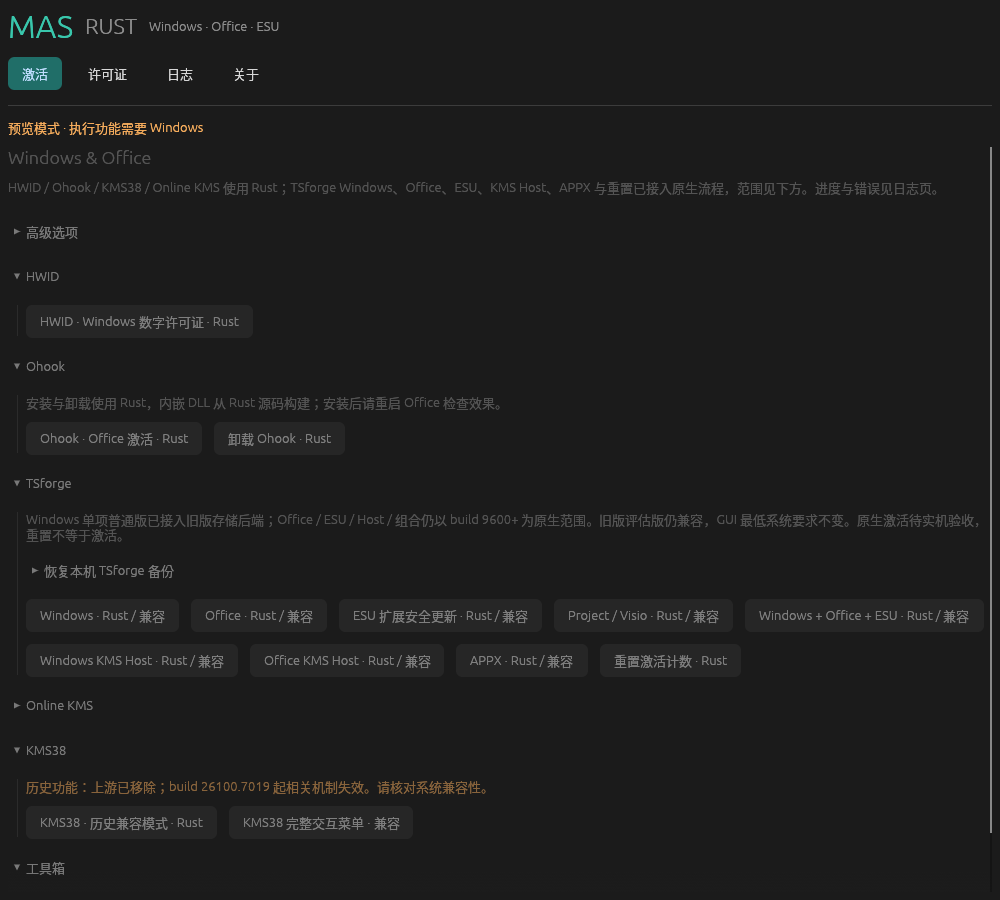
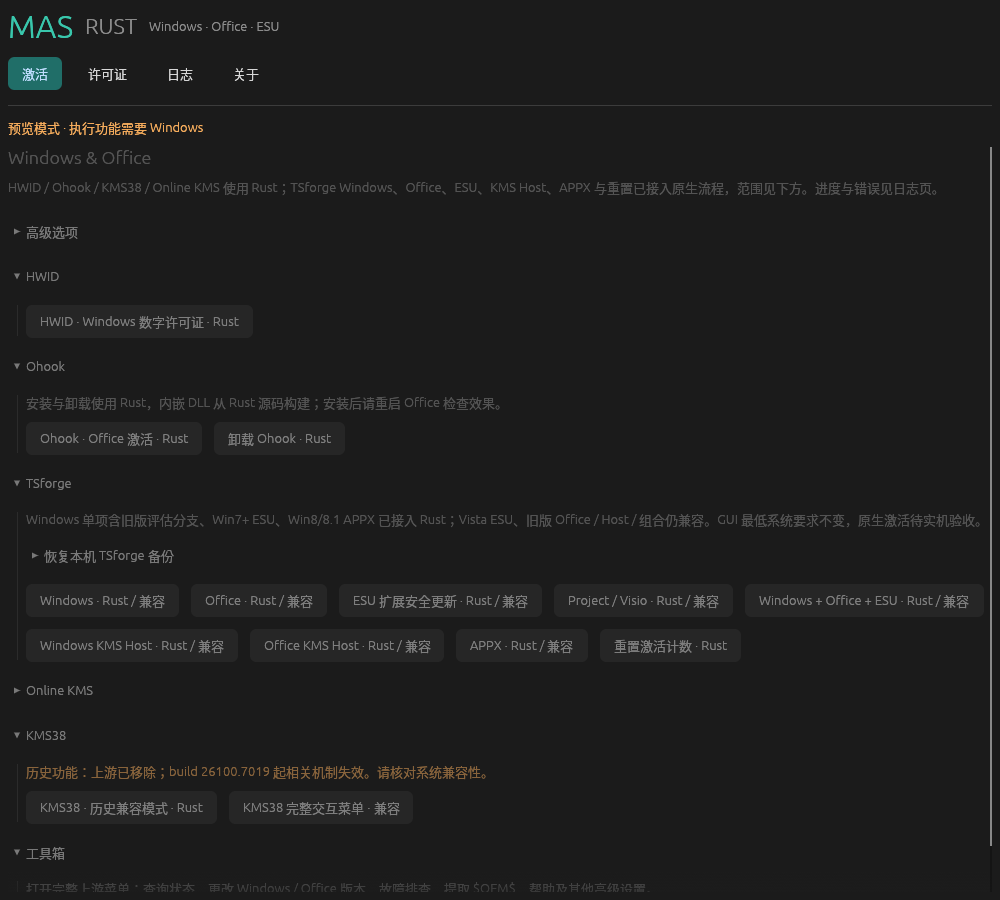
Enable native legacy evaluation ESU and Windows 8 APPX routes

diff --git a/src/app.rs b/src/app.rs
@@ -123,7 +123,7 @@ impl MasApp {
                     ui.colored_label(Color32::from_rgb(245,172,92), "历史功能：上游已移除；build 26100.7019 起相关机制失效。请核对系统兼容性。");
                 }
                 if category == "Ohook" {ui.label("安装与卸载使用 Rust，内嵌 DLL 从 Rust 源码构建；安装后请重启 Office 检查效果。");}
-                if category == "TSforge" { ui.label("Windows 单项普通版已接入旧版存储后端；Office / ESU / Host / 组合仍以 build 9600+ 为原生范围。旧版评估版仍兼容，GUI 最低系统要求不变。原生激活待实机验收，重置不等于激活。"); }
+                if category == "TSforge" { ui.label("Windows 单项含旧版评估分支、Win7+ ESU、Win8/8.1 APPX 已接入 Rust；Vista ESU、旧版 Office / Host / 组合仍兼容。GUI 最低系统要求不变，原生激活待实机验收。"); }
                 if category == "Online KMS" {
                     ui.label("原生支持 Windows、Office C2R 许可转换和 MSI 批量许可；可禁止自动转换。高级选项可指定服务器和端口，旧任务卸载仍在兼容菜单。");
                 }
@@ -296,7 +296,7 @@ impl MasApp {
                         ui.label("Rust / egui 图形前端，内嵌固定版本 MAS 引擎。非 Microsoft 或 MAS 官方产品。");
                         ui.label("当前引擎：MAS 3.12 · 6401d2f36975");
                         ui.label("KMS38 历史引擎：c9789e9aa341");
-                        ui.label("HWID / Ohook / KMS38 / Online KMS 核心和许可证管理已迁移 Rust；TSforge 现代 Windows、Office、ESU、KMS Host 和重置已接入 Rust；组合入口已接入 Rust；旧存储与高级工具仍兼容，修复分支继续迁移。");
+                        ui.label("HWID / Ohook / KMS38 / Online KMS 核心和许可证管理已迁移 Rust；TSforge Windows、Win7+ ESU、APPX 和重置已接入 Rust；Office、Host、组合的原生范围见 README；旧版剩余范围及修复/高级工具继续迁移。");
                         ui.hyperlink_to("上游源码与文档", "https://github.com/massgravel/Microsoft-Activation-Scripts");
                         ui.hyperlink_to("KMS38 兼容性变更", "https://github.com/massgravel/Microsoft-Activation-Scripts/commit/470d3b900e6aebfba224fde3ea7957308dd61230");
                         ui.label("GPL-3.0-only · 上游及其贡献者版权保留。许可证随源代码分发。");

diff --git a/src/native/tsforge/windows_context.rs b/src/native/tsforge/windows_context.rs
@@ -279,7 +279,6 @@ impl Context {
 pub enum Plan {
     AlreadyPermanent,
     Evaluation,
-    Legacy,
     LegacyNative { method: Method },
     Activate { sku: Uuid, method: Method },
 }
@@ -288,11 +287,8 @@ pub enum Plan {
 pub fn plan(context: &Context, option: usize) -> Result<Plan, String> {
     let method = Method::windows(option, context.build)?;
     if context.edition.to_ascii_lowercase().contains("eval") {
-        return Ok(if context.build < 9600 {
-            Plan::Legacy
-        } else {
-            Plan::Evaluation
-        });
+        super::crypto::Version::detect(context.build).map_err(|e| e.to_string())?;
+        return Ok(Plan::Evaluation);
     }
     if activation_flow::skip_permanent(
         context.build,
@@ -315,8 +311,8 @@ pub fn plan(context: &Context, option: usize) -> Result<Plan, String> {
     Ok(Plan::Activate { sku, method })
 }
 
-/// Called under engine's OperationGuard. None explicitly requests legacy/eval
-/// compatibility; native errors never trigger a second, compatibility attempt.
+/// Called under engine's OperationGuard; native errors never trigger a second
+/// compatibility attempt.
 pub fn activate(option: usize, report: &dyn Fn(&str)) -> Result<Option<String>, String> {
     activate_inner(option, false, report)
 }
@@ -352,10 +348,6 @@ fn activate_inner(
         Plan::Evaluation => super::evaluation_runtime::activate(&context, report).map(Some),
         Plan::LegacyNative { method } => {
             super::legacy_runtime::activate(&context, method, option == 0, report).map(Some)
-        }
-        Plan::Legacy => {
-            report("旧版 Windows 评估分支尚未接入原生激活，使用兼容引擎。");
-            Ok(None)
         }
         Plan::AlreadyPermanent => Ok(Some(
             if combined {
@@ -478,7 +470,7 @@ mod tests {
         context.build = 9600;
         assert!(matches!(plan(&context, 0).unwrap(), Plan::Evaluation));
         context.build = 9200;
-        assert!(matches!(plan(&context, 0).unwrap(), Plan::Legacy));
+        assert!(matches!(plan(&context, 0).unwrap(), Plan::Evaluation));
         context.build = 26100;
         context.edition = "Enterprise".into();
         assert!(matches!(plan(&context, 0).unwrap(), Plan::AlreadyPermanent));

diff --git a/src/native/tsforge/esu.rs b/src/native/tsforge/esu.rs
@@ -2,6 +2,20 @@
 #![cfg_attr(not(test), allow(dead_code))]
 use std::collections::HashSet;
 use uuid::Uuid;
+pub fn method(option: usize, build: u32) -> Result<super::activation_flow::Method, String> {
+    use super::activation_flow::Method;
+    let method = match option {
+        0 if build >= 26100 => Method::StaticCid,
+        0 | 2 => Method::ZeroCid,
+        1 => Method::StaticCid,
+        3 => return Err("Windows ESU 不支持 KMS4k；请选择 StaticCID 或 ZeroCID".into()),
+        _ => return Err("未知 TSforge 方法".into()),
+    };
+    if method == Method::StaticCid && build < 9200 {
+        return Err("StaticCID 需要 Windows 8 或更高版本，未执行 ESU 修改。".into());
+    }
+    Ok(method)
+}
 const TABLE: &str = include_str!("../../../vendor/mas/native/tsforge-esu.tsv");
 const BASE: &str = "Education-EducationN-Enterprise-EnterpriseN-Professional-ProfessionalEducation-ProfessionalEducationN-ProfessionalN-ProfessionalWorkstation-ProfessionalWorkstationN";
 #[derive(Debug, Clone)]
@@ -152,6 +166,19 @@ pub fn select(system: &System<'_>, installed: &HashSet<Uuid>) -> Selection {
 #[cfg(test)]
 mod tests {
     use super::*;
+    #[test]
+    fn old_esu_methods_reject_static_before_side_effects_and_keep_auto_policy() {
+        use super::super::activation_flow::Method;
+        for build in [7600, 7601, 7602] {
+            assert_eq!(method(0, build).unwrap(), Method::ZeroCid);
+            assert!(method(1, build).is_err());
+            assert!(method(3, build).is_err());
+        }
+        assert_eq!(method(1, 9200).unwrap(), Method::StaticCid);
+        assert_eq!(method(0, 26100).unwrap(), Method::StaticCid);
+        assert_eq!(method(2, 26100).unwrap(), Method::ZeroCid);
+        assert!(method(4, 26100).is_err());
+    }
     #[test]
     fn batch_attempts_all_products_and_only_postprocesses_complete_success() {
         let products = vec![

diff --git a/src/native/tsforge/esu_runtime.rs b/src/native/tsforge/esu_runtime.rs
@@ -1,4 +1,4 @@
-//! Modern ESU orchestration with connectivity gating and SPP reevaluation.
+//! Versioned ESU orchestration with connectivity gating and SPP reevaluation.
 #![allow(dead_code)]
 use super::{
     activation_flow::{self, Method},
@@ -115,8 +115,7 @@ fn system_esu_tool(file: &str, args: &[&str], report: &dyn Fn(&str)) -> Result<(
     }
 }
 
-/// Internal until the GUI scope route is enabled.
-/// Old stores return None before any activation; errors do not request fallback.
+/// Vista keeps explicit compatibility before mutations; native errors never request fallback.
 pub fn activate(option: usize, report: &dyn Fn(&str)) -> Result<Option<String>, String> {
     activate_inner(option, false, report)
 }
@@ -138,16 +137,12 @@ fn activate_inner(
         return Err("原生 TSforge 不支持跨架构仿真，请使用本机 x64 构建".into());
     }
     let context = Context::read(report)?;
-    if context.build < 9600 {
+    if super::crypto::Version::detect(context.build).map_err(|e| e.to_string())?
+        == super::crypto::Version::Vista
+    {
         return Ok(None);
     }
-    let method = match option {
-        0 if context.build >= 26100 => Method::StaticCid,
-        0 | 2 => Method::ZeroCid,
-        1 => Method::StaticCid,
-        3 => return Err("Windows ESU 不支持 KMS4k；请选择 StaticCID 或 ZeroCID".into()),
-        _ => return Err("未知 TSforge 方法".into()),
-    };
+    let method = esu::method(option, context.build)?;
     let method = if combined {
         method
     } else {

diff --git a/src/native/tsforge/evaluation_runtime.rs b/src/native/tsforge/evaluation_runtime.rs
@@ -1,4 +1,4 @@
-//! Native modern Windows evaluation activation; never invokes a script engine.
+//! Native versioned Windows evaluation activation; never invokes a script engine.
 #![allow(dead_code)]
 use super::{
     evaluation::{self, Backend, Product},
@@ -64,7 +64,10 @@ impl Backend for Native<'_> {
     }
 }
 pub fn activate(context: &Context, report: &dyn Fn(&str)) -> Result<String, String> {
-    super::runtime::preflight()?;
+    let layout = super::runtime::storage_preflight()?;
+    if layout.version != super::crypto::Version::detect(context.build).map_err(|e| e.to_string())? {
+        return Err("评估版上下文与本机存储版本不符，未执行重置。".into());
+    }
     if !context.edition.to_ascii_lowercase().contains("eval") {
         return Err("当前 Windows 不是评估版，未执行评估重置".into());
     }

diff --git a/build.rs b/build.rs
@@ -135,7 +135,7 @@ fn main() {
             .set("LegalCopyright", "MAS Rust contributors")
             .set_manifest(
                 r#"<assembly xmlns="urn:schemas-microsoft-com:asm.v1" manifestVersion="1.0">
-  <assemblyIdentity version="0.6.0.11" processorArchitecture="*" name="MAS.Rust" type="win32"/>
+  <assemblyIdentity version="0.6.0.12" processorArchitecture="*" name="MAS.Rust" type="win32"/>
   <description>MAS Rust</description>
   <trustInfo xmlns="urn:schemas-microsoft-com:asm.v3">
     <security>

diff --git a/src/native/tsforge/auxiliary_runtime.rs b/src/native/tsforge/auxiliary_runtime.rs
@@ -44,7 +44,7 @@ pub fn activate(
             .into(),
         ));
     }
-    if context.build < 9600 {
+    if scope == Scope::OfficeHost && context.build < 9600 {
         return Ok(None);
     }
     let method = match option {
